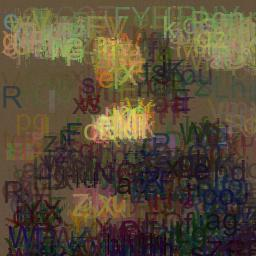
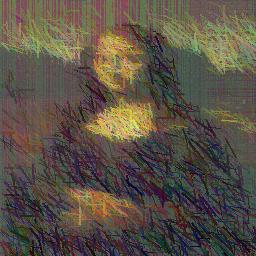
updating

diff --git a/utils.py b/utils.py
@@ -29,15 +29,22 @@ def add_text(image, target_height, target_width, size):
     
 
 def add_circle(image, target_height, target_width, radius):
-    circle_center = (random.randint(0, 255), random.randint(0, 255))  # Center of the circle
-    radius = random.randint(5, 14)
+    circle_center = (random.randint(0, target_height-1), random.randint(0, target_width-1))  # Center of the circle
+    radius = random.randint(2, 7)
 
     left_up_point = (circle_center[0] - radius, circle_center[1] - radius)
     right_down_point = (circle_center[0] + radius, circle_center[1] + radius)
 
     # Draw the circle
-    image.ellipse([left_up_point, right_down_point], outline="blue", width=3)
+    image.ellipse([left_up_point, right_down_point], fill=random_color())
     
+    
+def add_line(image, target_height, target_width):
+    x1, y1 = random.randint(0,target_width-1), random.randint(0,target_height-1)
+    #x2, y2 = random.randint(0,target_width-1), random.randint(0,target_height-1)
+    
+    thickness_value = random.randint(1, 2)
+    image.line([(y1,x1), (y1 + random.randint(0, 20), x1 + random.randint(0, 20))], fill=random_color(), width=thickness_value)
     
     
 def add_constant(ind):
@@ -67,13 +74,17 @@ def create_population(population_size, target_height, target_width, size, type):
     for _ in range(population_size):
         new_image = Image.new("RGBA", (target_height, target_width), color=random_color())
         img = ImageDraw.Draw(new_image)
-        n_rectangles = random.randint(3, 6)
+        n_shapes = random.randint(3, 6)
         
-        for _ in range(n_rectangles):
-            if type == 1:
+        for _ in range(n_shapes):
+            if type == 0:
                 add_rectangle(img, target_height, target_width, size)
-            if type == 2:
+            if type == 1:
                 add_text(img, target_height, target_width, size)
+            if type == 2:
+                add_circle(img, target_height, target_width, size)
+            if type == 3:
+                add_line(img, target_height, target_width)
             
         initial_population.append(np.array(new_image))   
         
@@ -147,7 +158,10 @@ def mutate(ind, size, type):
             add_rectangle(_, ind.shape[1], ind.shape[0], size)
         if type == 1:
             add_text(_, ind.shape[1], ind.shape[0], size)
-            
+        if type == 2:
+            add_circle(_, ind.shape[1], ind.shape[0], size)
+        if type == 3:
+            add_line(_, ind.shape[1], ind.shape[0])
         return np.array(ind_image)
     else:
         return add_constant(ind)

diff --git a/genetic_algorithm.py b/genetic_algorithm.py
@@ -49,9 +49,10 @@ for generation in range(args.generation):
     if generation % 100 == 0:
         frames.append(best_ind)
         end = time.time()
-        print(f"Generation: {generation}, avg fitness : {sum(fitnesses) / len(fitnesses)}, time per 100 generations: {(end - start):.2f}")
+        #print(f"Generation: {generation}, avg fitness : {sum(fitnesses) / len(fitnesses)}, time per 100 generations: {(end - start):.2f}")
+        print(f"Generation: {generation}, avg fitness : {sum(fitnesses) / len(fitnesses):.2f}")
         start = time.time()
 
-imageio.mimsave("gifs/output_gif_letter10.gif", frames)
+imageio.mimsave("gifs/output_lines30k.gif", frames)
 plt.imsave("images/best_image.jpg", best_ind) 
 
